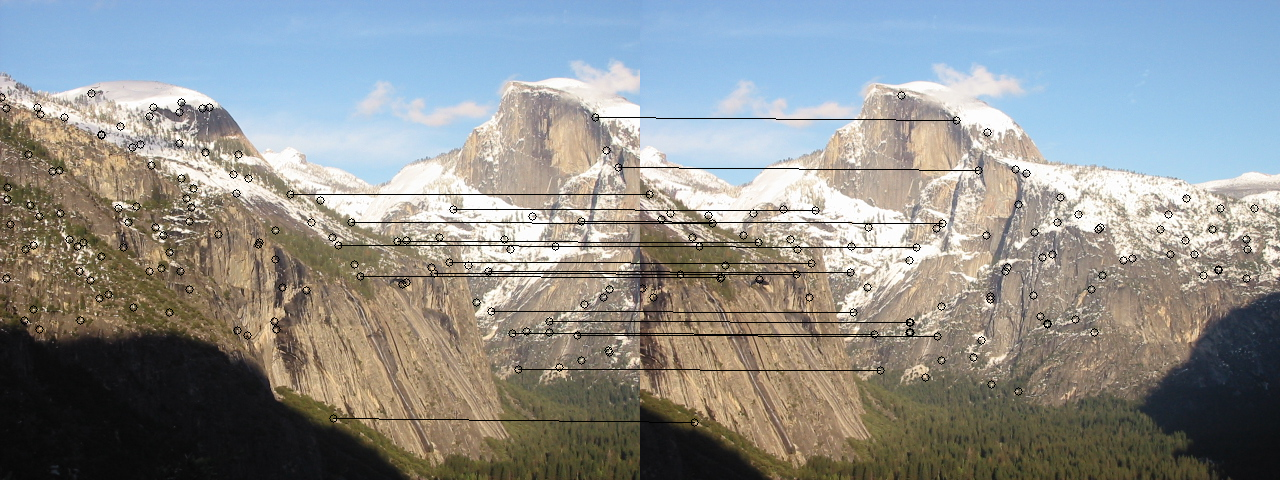
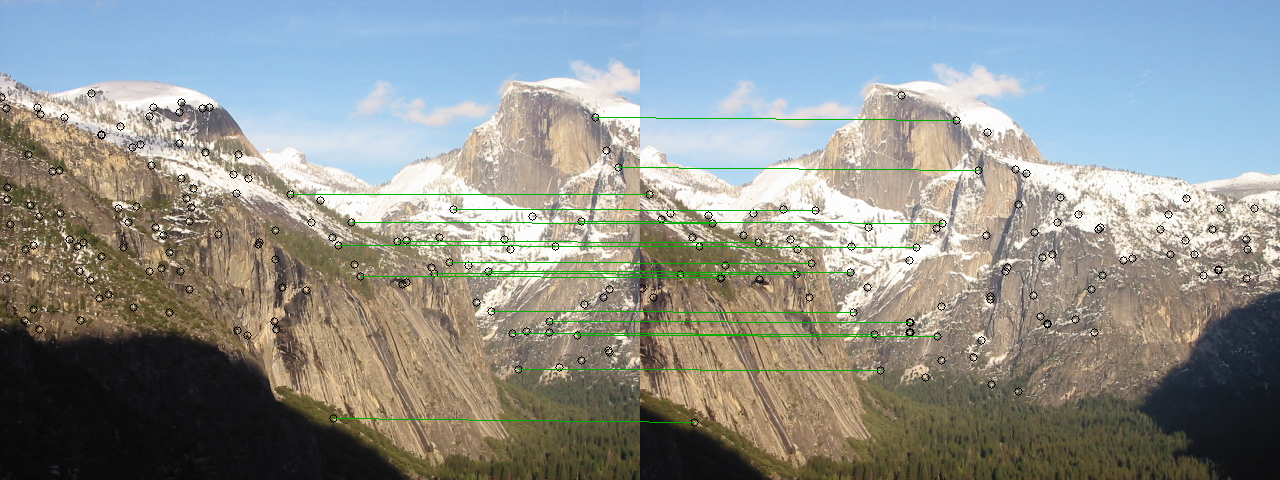
Comments, cleanup, readme, and final touch ups

diff --git a/src/FeatureDetector_498.cpp b/src/FeatureDetector_498.cpp
@@ -3,6 +3,11 @@
 using namespace cv;
 using namespace std;
 
+/**
+ * Constructor
+ *
+ * @param file File path to image being processed
+ */
 FeatureDetector_498::FeatureDetector_498(string file) {
     // Init original image
     this->raw = imread(file, IMREAD_COLOR);
@@ -24,7 +29,7 @@ FeatureDetector_498::FeatureDetector_498(string file) {
             1.0/6, 0, -1.0/6
     };
 
-    // Sobel Filters
+    // Apply Sobel Filters
     Mat s_v = Mat(3, 3, CV_32F, sobelFilter);
     Mat s_h = s_v.t();      // Transpose of horizontal Sobel matrix
 
@@ -45,10 +50,11 @@ FeatureDetector_498::FeatureDetector_498(string file) {
  * @return Mat (CV_32F)
  */
 Mat FeatureDetector_498::harrisCornerDetector() {
-    Mat Ixx = Mat::zeros(Ix.size(), CV_32F);
-    Mat Iyy = Mat::zeros(Iy.size(), CV_32F);
-    Mat Ixy = Mat::zeros(Ix.size(), CV_32F);
-    Mat Corners = Mat::zeros(image.size(), CV_32F);
+    // Init and clear matrices
+    Mat Ixx = Mat::zeros(Ix.size(), CV_32F);        // IxIx
+    Mat Iyy = Mat::zeros(Iy.size(), CV_32F);        // IyIy
+    Mat Ixy = Mat::zeros(Ix.size(), CV_32F);        // IxIy
+    Mat Corners = Mat::zeros(image.size(), CV_32F); // C = det(H) - trace(h)
 
     // Create Harris matrix components
     for (int i = 0; i < gray.rows; i++) {
@@ -95,7 +101,7 @@ Mat FeatureDetector_498::harrisCornerDetector() {
 }
 
 /**
- * Suppress non maximum values in a matrix of corner strength values from Harris Corner Detection
+ * Suppress non maximum values in a Corner Strength matrix from Harris Corner Detection
  *
  * @param harrisCorners non-suppressed corner strength values from harris corner detector
  * @return Mat (CV_32F)
@@ -107,10 +113,12 @@ Mat FeatureDetector_498::nonMaximaSuppression(Mat harrisCorners) {
     int maxRow = 0;
     int maxCol = 0;
 
+    // Iterate through image jumping by window size
     for (int i = SUPPRESSION_MID; i < gray.rows - SUPPRESSION_MID; i += SUPPRESSION_WINDOW) {
         for (int j = SUPPRESSION_MID; j < gray.cols - SUPPRESSION_MID; j += SUPPRESSION_WINDOW) {
             max = 0;
 
+            // Perform suppression within the window
             for (int k = i - SUPPRESSION_MID; k <= i + SUPPRESSION_MID; k++) {
                 for (int l = j - SUPPRESSION_MID; l <= j + SUPPRESSION_MID; l++) {
                     current = harrisCorners.at<float>(k, l);
@@ -123,6 +131,7 @@ Mat FeatureDetector_498::nonMaximaSuppression(Mat harrisCorners) {
                 }
             }
 
+            // Maintain maximum value and draw circle on the originating image to highlight interest point
             if (max > 0) {
                 s.at<float>(maxRow, maxCol) = max;
                 circle(image, Point(maxCol, maxRow), 4, Scalar(0, 0, 0, 255));

diff --git a/src/SIFT/SIFTDescriptor.cpp b/src/SIFT/SIFTDescriptor.cpp
@@ -4,8 +4,10 @@
 /**
  * Constructor
  *
- * @param x window of x derivative values
- * @param y window of y derivative values
+ * @param x Window of x derivative values
+ * @param y Window of y derivative values
+ * @param row Row position of originating interest point
+ * @param col Column position of originating interest point
  */
 SIFTDescriptor::SIFTDescriptor(float x[WINDOW_SIZE][WINDOW_SIZE], float y[WINDOW_SIZE][WINDOW_SIZE], int row, int col) {
     // Init neighbourhood window
@@ -34,6 +36,7 @@ SIFTDescriptor::SIFTDescriptor(float x[WINDOW_SIZE][WINDOW_SIZE], float y[WINDOW
  * @return void
  */
 void SIFTDescriptor::generateHistograms() {
+    const float MAGNITUDE_THRESHOLD = 0.2;
     float m;
     int a;
 
@@ -47,11 +50,13 @@ void SIFTDescriptor::generateHistograms() {
             float x = windowX[i][j];
             float y = windowY[i][j];
 
+            // Calculate magnitude, angle, bin placement
             m = sqrt((x*x)+(y*y));
-            a = (int) ((atan(y/x)*180)/M_PI) % 360;
+            a = (int) ((atan(y/x)*180)/M_PI) % 360; // Angle in degrees
             bin = indexForTheta(a);
 
-            bins[gIndex][bin] += (m > 0.2) ? 0.2 : m;
+            // Threshold
+            bins[gIndex][bin] += (m > MAGNITUDE_THRESHOLD) ? MAGNITUDE_THRESHOLD : m;
         }
     }
 }
@@ -59,7 +64,7 @@ void SIFTDescriptor::generateHistograms() {
 /**
  * Maps theta to a bin index
  *
- * @param theta calculated angle from -pi/2 to pi/2
+ * @param theta Calculated angle from 0 to 360 degrees
  * @return int
  */
 int SIFTDescriptor::indexForTheta(float theta) {

diff --git a/src/main.cpp b/src/main.cpp
@@ -24,6 +24,13 @@ int main() {
     return 0;
 }
 
+/**
+ * Detect interest points within two images and link matching pairs
+ *
+ * @param img1 Starting image to detect interest points
+ * @param img2 Corresponding image to detect matching interest points
+ * @return Mat containing both inputs with highlighted interest points and matches
+ */
 Mat matchFeatures(string img1, string img2) {
     const double DISTANCE_THRESHOLD = 3.0;
 
@@ -71,7 +78,8 @@ Mat matchFeatures(string img1, string img2) {
             // Match is unambiguous
             if (ratioScore < 0.005) {
                 line(matches, Point(descriptions.at(i).getFeatureCol(), descriptions.at(i).getFeatureRow()),
-                     Point(bestDescriptor->getFeatureCol()+h.cols, bestDescriptor->getFeatureRow()), Scalar(0, 0, 0, 255));
+                     Point(bestDescriptor->getFeatureCol()+h.cols, bestDescriptor->getFeatureRow()),
+                     Scalar(0, 175, 0, 255), 1);
             }
         }
     }

diff --git a/README.md b/README.md
@@ -1,0 +1,33 @@
+# COMP 498 - Assignment 2
+Steve Ferreira, 27477546  
+Section: Winter 2018 - GG  
+Date: February 13, 2018  
+
+**I certify that this submission is my original work and meets the Faculty's Expectations of Originality.**
+
+## Prequisits
+- OpenCV
+- C++ 11
+- CMake
+- Make
+
+## Compilation instructions
+
+**This project uses the C++11 standard, and you will need a recent compiler capable of supporting these features.**
+
+This project uses CMake >=3.5 (https://cmake.org/) to generate build files for any platform. It can be installed on Linux or macOS using a package manager, or Windows using the official installer. Ensure it is added to your system PATH and accessible via command line.
+
+Then, CMake can be used in the command line to generate build files for any environment desired.
+
+1. `cd [path to assignment]`
+2. `mkdir build`
+3. `cd build`
+4. `cmake -G "your generator here" ..`
+    - Run `cmake -G` to see a list of possible generators, eg. `Xcode`, `Unix Makefiles`, versions of Visual Studio, etc.
+5. Build the project using whichever build system you chose.
+
+## Results
+See included report.
+
+## Notes
+This assignment has been tested on Linux, using OpenCV 3.4.0, CMake 3.10.2, Make 4.2.1
